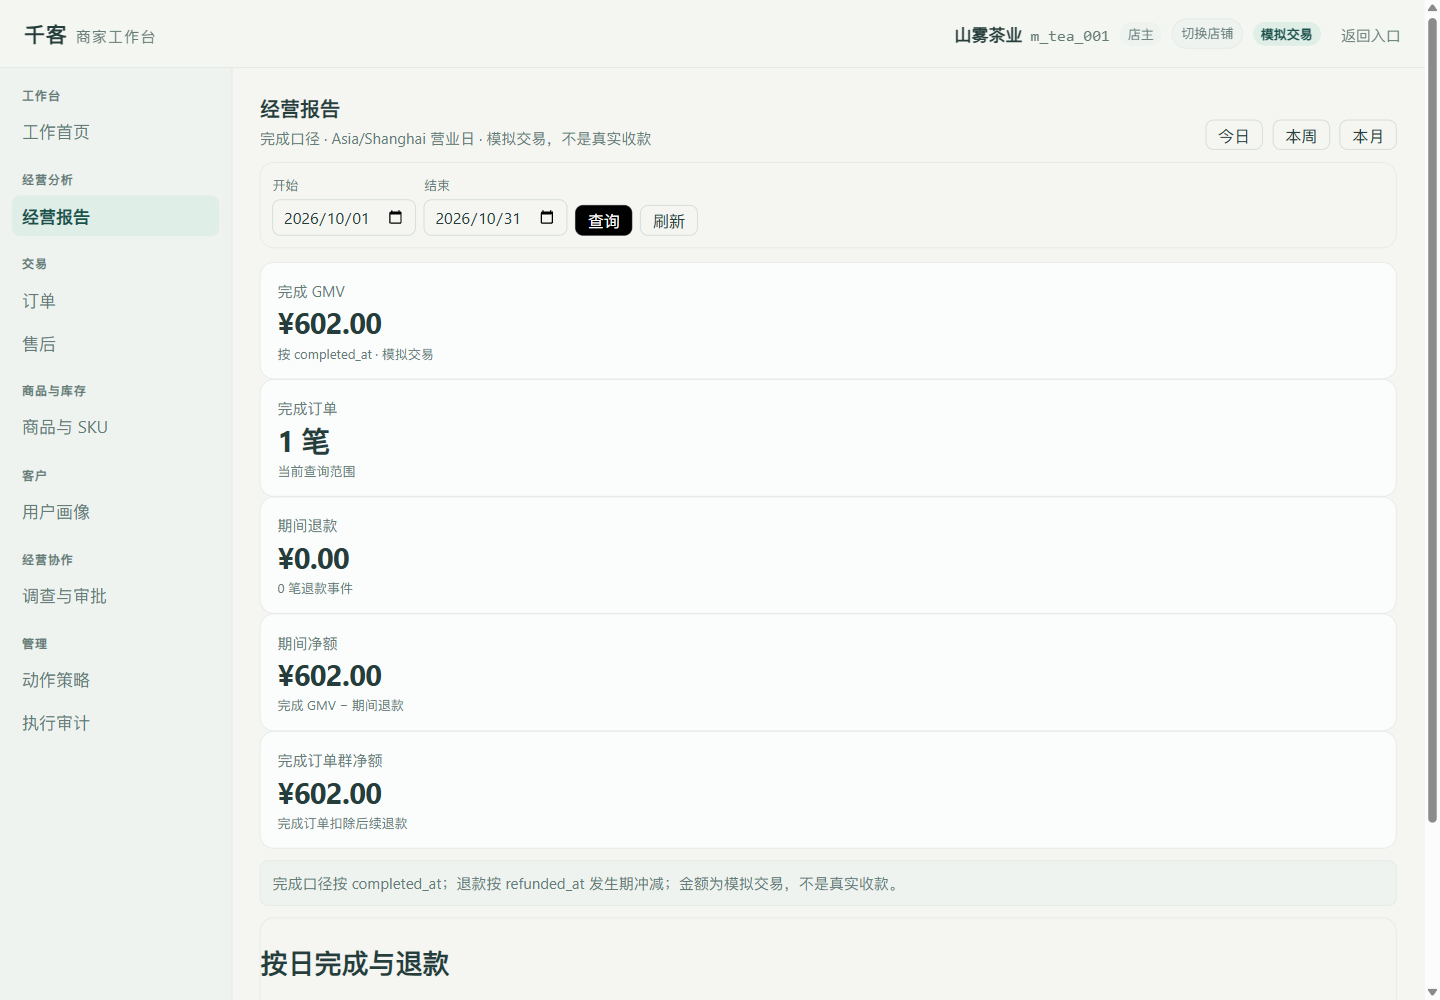
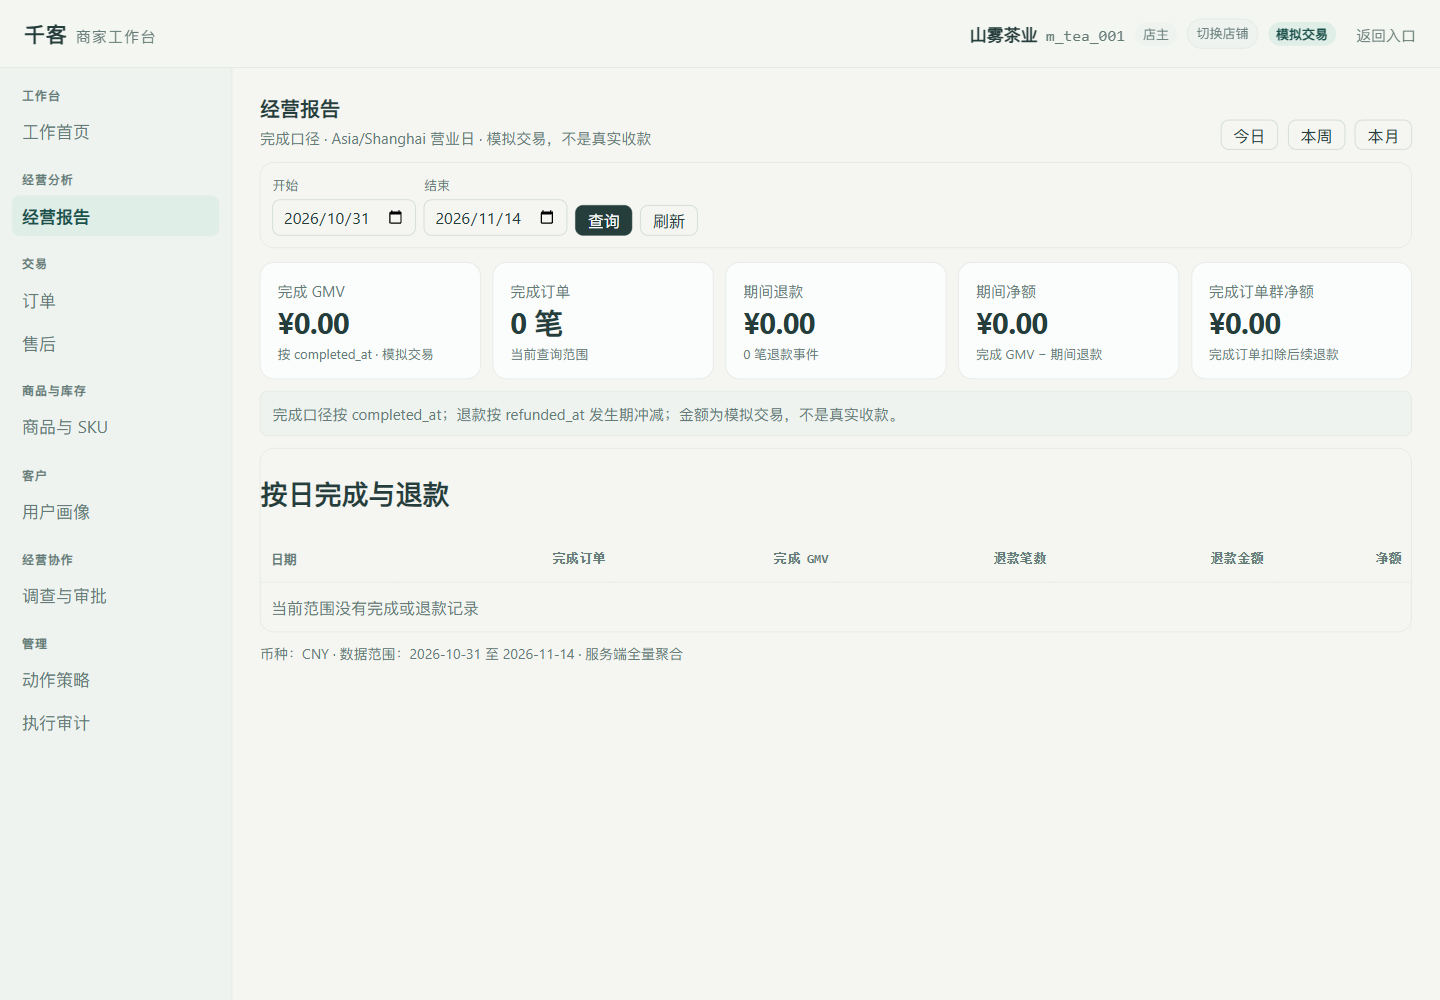
fix(web): align report metrics and mobile typography

diff --git a/web/src/b-workbench.js b/web/src/b-workbench.js
@@ -2102,12 +2102,12 @@ function overviewView() {
         <div class="b-overview-tasks">${priorityRows.join("")}</div>
       </section>
       <section class="b-card b-overview-panel">
-        <div class="b-panel-head"><div><h2>${role === "support" ? "客服能力" : role === "warehouse" ? "库存口径" : "经营报告"}</h2><p>${role === "support" ? "明确当前能力边界" : role === "warehouse" ? "先对齐字段含义" : "先把统计口径说清楚"}</p></div><span class="b-chip">${role === "support" ? "待接入" : "待接入"}</span></div>
+        <div class="b-panel-head"><div><h2>${role === "support" ? "客服能力" : role === "warehouse" ? "库存口径" : "经营报告"}</h2><p>${role === "support" ? "明确当前能力边界" : role === "warehouse" ? "先对齐字段含义" : "按完成时间统计 · 模拟交易"}</p></div><span class="b-chip">${role === "support" ? "待接入" : "已接入"}</span></div>
         ${role === "support"
           ? `<div class="b-overview-placeholder"><strong>客服会话待接入</strong><p>当前 B 端有用户画像和售后数据，但没有完整的客服坐席收件箱。正式接入前不展示假会话、假在线状态。</p><button type="button" class="b-btn b-btn-ghost" disabled>进入客服会话</button></div>`
           : role === "warehouse"
             ? `<div class="b-overview-placeholder"><strong>库存字段待后端确认</strong><p>可用、锁定、安全库存目前来自商品快照；批量保存、并发版本和部分失败契约尚未接入。</p><button type="button" class="b-btn b-btn-ghost" data-view="products">查看商品与 SKU</button></div>`
-            : `<div class="b-overview-placeholder"><strong>暂不绘制经营趋势</strong><p>当前是模拟交易；按完成时间统计的口径已确认，但退款冲减、跨月归属和真实支付尚未接入。</p><button type="button" class="b-btn b-btn-ghost" disabled>查看经营报告</button></div>`}
+            : `<div class="b-overview-placeholder"><strong>查看经营报告</strong><p>按完成时间汇总 GMV、退款和净额；服务端全量聚合，支持今日/本周/本月和自定义日期。</p><button type="button" class="b-btn b-btn-ghost" data-view="reports">查看经营报告</button></div>`}
       </section>
     </div>
   </section>`;
@@ -2662,7 +2662,7 @@ function reportsView() {
       <button type="button" class="b-btn b-btn-ghost" data-report-refresh ${state.reportLoading ? "disabled" : ""}>刷新</button>
     </div>
     ${state.reportLoading && !report ? skeletonMarkup(2) : report ? `
-      <div class="b-metric-grid">${metrics.map(([label, value, note, tone]) => `<div class="b-metric ${tone || ""}"><span>${escapeHtml(label)}</span><strong>${value}</strong><small>${escapeHtml(note)}</small></div>`).join("")}</div>
+      <div class="b-report-metrics">${metrics.map(([label, value, note, tone]) => `<div class="b-metric ${tone || ""}"><span>${escapeHtml(label)}</span><strong>${value}</strong><small>${escapeHtml(note)}</small></div>`).join("")}</div>
       <div class="b-report-note">${escapeHtml(report.note || "")}</div>
       <div class="b-card">
         <h2 class="b-card-title">按日完成与退款</h2>

diff --git a/web/src/styles/landing.css b/web/src/styles/landing.css
@@ -2522,3 +2522,25 @@ button.l-btn {
     transform: none;
   }
 }
+
+
+/* 手机端不要强行撑满 100vh；否则 CTA 下方会留一大块空黑 */
+@media (max-width: 720px) {
+  .l-hero {
+    min-height: auto;
+  }
+
+  .l-hero-split {
+    padding-bottom: 36px;
+  }
+}
+
+
+/* 手机端 B 端标题：避免把“报告”拆成两行 */
+@media (max-width: 720px) {
+  .l-bw-title {
+    font-size: clamp(28px, 8vw, 36px);
+    word-break: keep-all;
+    line-height: 1.3;
+  }
+}

diff --git a/web/src/b-workbench.css b/web/src/b-workbench.css
@@ -2825,3 +2825,23 @@ code,
     width: 100%;
   }
 }
+
+
+/* 经营报告：5 张指标卡桌面一行，窄屏自动折行 */
+.b-report-metrics {
+  display: grid;
+  grid-template-columns: repeat(5, minmax(0, 1fr));
+  gap: 12px;
+}
+
+@media (max-width: 1180px) {
+  .b-report-metrics {
+    grid-template-columns: repeat(3, minmax(0, 1fr));
+  }
+}
+
+@media (max-width: 700px) {
+  .b-report-metrics {
+    grid-template-columns: minmax(0, 1fr);
+  }
+}

diff --git a/docs/e2e/visual-alignment-audit.md b/docs/e2e/visual-alignment-audit.md
@@ -1,0 +1,53 @@
+# 视觉对齐审计（2026-11-14）
+
+## 审计范围
+
+```text
+首页 /home               1440 / 390
+B 端工作首页             1440 / 390
+B 端订单                 1440
+B 端经营报告             1440 / 390
+C 端 /c/app              1440 / 390
+```
+
+## 结论
+
+```text
+所有页面无横向溢出
+首页 390：380 / 380
+B 端 390：375 / 375
+C 端 390：390 / 390
+```
+
+## 发现并修复
+
+### 1. 经营报告指标卡未成网格
+
+- 桌面 5 张指标卡原本纵向堆叠
+- 原因：报告页用了未定义的 `b-metric-grid`
+- 修复：改为 `b-report-metrics`，桌面 5 列，≤1180 三列，≤700 单列
+
+### 2. B 端工作首页报告卡文案过期
+
+- 仍写“经营报告待接入 / 暂不绘制经营趋势”
+- 修复：改为“已接入”，按钮进入经营报告页
+
+### 3. 手机端 B 端标题拆词
+
+- “经营报告”被拆成“经营报 / 告”
+- 修复：手机端标题字号收紧 + `word-break: keep-all`
+
+## 截图
+
+```text
+docs/design/b-end-2.0-p0-prod-completion-report.png
+docs/design/b-end-2.0-p0-prod-completion-report-mobile.png
+docs/design/landing-home-redesign-mobile.png
+```
+
+## 剩余非阻断项
+
+```text
+C 端历史会话仍保留旧版“图片发不过去”的回复，新消息才走当前链路
+B 端手机工作首页低库存卡在首屏底部被截断，可滚动
+```
